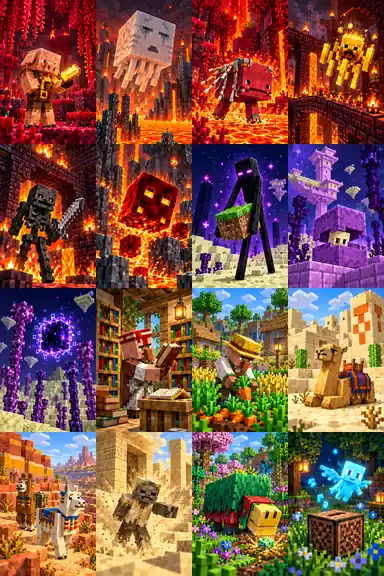
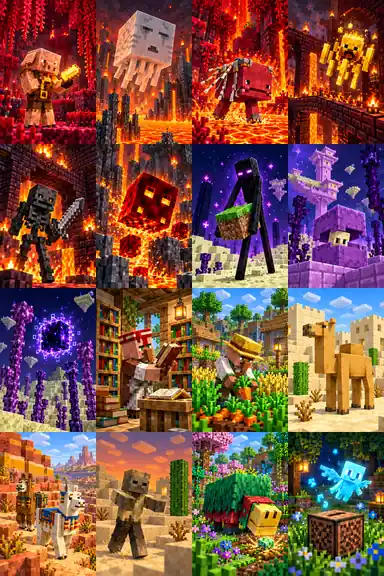
UNO: Minecraft kart baskısını yenile, Overworld masası ve mobil arka plan ekle

Changed region(s): [[0.75, 0.5, 1.0, 0.75], [0.25, 0.75, 0.5, 1.0]]

diff --git a/app/public/card-themes.js b/app/public/card-themes.js
@@ -2,7 +2,7 @@ export const DECKS=[{id:'classic',name:'Klasik'},{id:'cats',name:'Kediler'},{id:
 let current='classic';
 export function setDeckTheme(id){current=DECKS.some(d=>d.id===id)?id:'classic';return current;}
 export const getDeckTheme=()=>current;
-const atlasFile=(theme,sheet)=>`./assets/cards/${theme}-${sheet}.webp${theme==='cats'&&sheet==='b'?'?v=3':''}`;
+const atlasFile=(theme,sheet)=>`./assets/cards/${theme}-${sheet}.webp${theme==='cats'&&sheet==='b'?'?v=3':theme==='minecraft'&&sheet==='b'?'?v=2':''}`;
 export const deckFiles=id=>id==='classic'||!DECKS.some(d=>d.id===id)?[]:(id==='minecraft'?['a','b','c','d'].map(sheet=>atlasFile(id,sheet)):[atlasFile(id,'a'),atlasFile(id,'b'),...(id==='kuromi'?[atlasFile(id,'c')]:[])]);
 const colors={red:'#d90b28',yellow:'#f5c400',green:'#00954c',blue:'#086bdb',wild:'#22202a'};
 const family={cats:{paper:'#fff7e7',ink:'#342b28'},seal:{paper:'#fffefa',ink:'#211e24'},kuromi:{paper:'#ffeaf7',ink:'#291b30'},adventure:{paper:'#fff9df',ink:'#172c32'}};
@@ -109,13 +109,15 @@ function minecraftArtwork(index,preview=false){
   return `<svg width="100" height="150" style="width:100%;height:100%;overflow:hidden" viewBox="${column*100} ${row*150} 100 150"><image href="${atlasFile('minecraft',sheet)}" width="400" height="600" preserveAspectRatio="none"/></svg>`;
 }
 function minecraftFace(c,back,preview){
-  const index=sceneIndex(c,back,'minecraft'),color=colors[c.color]??'#10191e';let print=minecraftArtwork(index,back&&preview);
-  if(back){print+=`<g transform="rotate(-16 50 75)"><path d="M12 52h76v6h5v36h-6v5H12v-5H7V58h5Z" fill="#c71330" stroke="#fff5d8" stroke-width="2.5"/><g transform="translate(20 63)">${pixelWord('UNO','#ffdf62',3.5)}</g></g>`;}
-  else{
-    const stair='M0 0H72v5h-6v6h-6v6h-6v6h-6v6h-6v6h-6v6h-6v6h-6v6h-6v6h-6v6H6v6H0Z';
-    const mark=/^\d$/.test(c.value)?`<g transform="translate(8 8)">${pixelWord(c.value,'#fff7dc',3.8)}</g>`:['draw2','wild4'].includes(c.value)?`<g transform="translate(7 11)">${pixelWord(c.value==='draw2'?'+2':'+4','#fff7dc',2.65)}</g>`:glyph(c.value,'#fff7dc','#101c1d',2);
-    const corner=`<path d="${stair}" fill="${color}" fill-opacity=".94"/><path d="M7 66h6v-6h6v-6h6v-6h6v-6h6v-6h6v-6h6v-6h6v-6h6v-6h6" fill="none" stroke="${c.color==='wild'?'#a269df':'#fff8e1'}" stroke-width="1.1" opacity=".7"/>${mark}`;
-    print+=corner+`<g transform="rotate(180 50 75)">${corner}</g>`;
+  const index=sceneIndex(c,back,'minecraft'),wild=back||c.color==='wild',color=wild?'#201a36':colors[c.color],id='mc-print-'+(back?'back':c.color);
+  const wash=`<defs><linearGradient id="${id}-wash" x1="0" y1="0" x2="0" y2="1"><stop stop-color="${color}"/><stop offset=".12" stop-color="${color}" stop-opacity=".86"/><stop offset=".36" stop-color="${color}" stop-opacity="0"/><stop offset=".65" stop-color="${color}" stop-opacity="0"/><stop offset=".89" stop-color="${color}" stop-opacity=".72"/><stop offset="1" stop-color="${color}"/></linearGradient><linearGradient id="${id}-light" x2="1" y2="1"><stop stop-color="#fff7dc" stop-opacity=".8"/><stop offset=".4" stop-color="#fff7dc" stop-opacity=".14"/><stop offset="1" stop-color="#fff7dc" stop-opacity=".5"/></linearGradient></defs>`;
+  let print=wash+minecraftArtwork(index,back&&preview)+`<rect width="100" height="150" fill="url(#${id}-wash)"/>`;
+  if(back){
+    print+=`<path d="M9 46Q50 38 91 46v58Q50 112 9 104Z" fill="#181728" opacity=".72"/><path d="M15 49h7m56 0h7M15 101h7m56 0h7" stroke="#c7b8d7" stroke-width="1.2"/><g transform="translate(22 61)">${pixelWord('UNO','#fff5da',3.3)}</g>${palette.map((fill,i)=>`<path d="m${35+i*9} 92 3.3-3.3 3.3 3.3-3.3 3.3Z" fill="${fill}" stroke="#fff5da" stroke-width=".5"/>`).join('')}`;
+  }else{
+    const mark=/^\d$/.test(c.value)?`<g transform="translate(8 7)">${pixelWord(c.value,'#fff9e8',3.35)}${['6','9'].includes(c.value)?'<path d="M0 26h17" stroke="#fff9e8" stroke-width="1.8"/>':''}</g>`:['draw2','wild4'].includes(c.value)?`<g transform="translate(8 9)">${pixelWord(c.value==='draw2'?'+2':'+4','#fff9e8',2.45)}</g>`:`<g transform="translate(1 -1) scale(.9)">${glyph(c.value,'#fff9e8','#152019',1.4)}</g>`;
+    print+=mark+`<g transform="rotate(180 50 75)">${mark}</g>`;
+    if(c.value==='wild4')print+=palette.map((fill,i)=>`<path d="M${77+i%2*7} ${9+Math.floor(i/2)*7}h6v6h-6Z" fill="${fill}" stroke="#fff9e8" stroke-width=".6"/>`).join('');
   }
-  return `<svg viewBox="0 0 100 150" xmlns="http://www.w3.org/2000/svg" aria-hidden="true" data-deck="minecraft"${back?'':` data-card-value="${c.value}"`} style="overflow:hidden;border-radius:9% / 6%">${print}<rect x="1.7" y="1.7" width="96.6" height="146.6" rx="7.3" fill="none" stroke="#fff5d8" stroke-width="3.4"/><rect x="3.6" y="3.6" width="92.8" height="142.8" rx="5.4" fill="none" stroke="#163022" stroke-width=".65" opacity=".65"/></svg>`;
+  return `<svg viewBox="0 0 100 150" xmlns="http://www.w3.org/2000/svg" aria-hidden="true" data-deck="minecraft"${back?'':` data-card-value="${c.value}"`} style="overflow:hidden;border-radius:9% / 6%">${print}<rect x="1.5" y="1.5" width="97" height="147" rx="7.5" fill="none" stroke="#fff4dc" stroke-width="3"/><rect x="3.4" y="3.4" width="93.2" height="143.2" rx="5.5" fill="none" stroke="${back?'#9c8db1':color}" stroke-width="2.2"/><rect x="4.8" y="4.8" width="90.4" height="140.4" rx="4.2" fill="none" stroke="url(#${id}-light)" stroke-width=".6"/></svg>`;
 }

diff --git a/app/public/appearance.js b/app/public/appearance.js
@@ -8,10 +8,11 @@ export const TABLES=[
   {id:'navy',name:'Lacivert',felt:'#182e46',glow:'#3f648a55',panel:'#20364e',deep:'#132438'},
   {id:'charcoal',name:'Antrasit',felt:'#292b2c',glow:'#565b6040',panel:'#323638',deep:'#202426'},
   {id:'mauve',name:'Leylak',felt:'#40334c',glow:'#80658c50',panel:'#483c54',deep:'#30273b'},
-  {id:'rose',name:'Gülkurusu',felt:'#583a42',glow:'#a26c7350',panel:'#5c4048',deep:'#412c34'}
+  {id:'rose',name:'Gülkurusu',felt:'#583a42',glow:'#a26c7350',panel:'#5c4048',deep:'#412c34'},
+  {id:'minecraft',name:'Minecraft',felt:'#152b20',glow:'#223b2900',panel:'#1b3025',deep:'#10251b'}
 ];
-export function readAppearance(storage){try{storage??=globalThis.localStorage;const data=JSON.parse(storage.getItem(storageKey('uno-look-v1')));return {table:TABLES.some(t=>t.id===data?.table)?data.table:'green',deck:DECKS.some(d=>d.id===data?.deck)?data.deck:'classic'};}catch{return {table:'green',deck:'classic'};}}
-export function saveAppearance(look,storage){try{storage??=globalThis.localStorage;storage.setItem(storageKey('uno-look-v1'),JSON.stringify(look));}catch{}}
+export function readAppearance(storage){try{storage??=globalThis.localStorage;const data=JSON.parse(storage.getItem(storageKey('uno-look-v1')));return {table:data?.version!==2&&data?.deck==='minecraft'?'minecraft':TABLES.some(t=>t.id===data?.table)?data.table:'green',deck:DECKS.some(d=>d.id===data?.deck)?data.deck:'classic'};}catch{return {table:'green',deck:'classic'};}}
+export function saveAppearance(look,storage){try{storage??=globalThis.localStorage;storage.setItem(storageKey('uno-look-v1'),JSON.stringify({...look,version:2}));}catch{}}
 const loaded=new Map();
 function loadDeck(id){
   if(loaded.has(id))return loaded.get(id);
@@ -33,10 +34,10 @@ export function mountAppearance({onDeckChange,onError}){
   panel.addEventListener('click',async event=>{
     const swatch=event.target.closest('button[data-table]'),deck=event.target.closest('button[data-deck]');
     if(swatch){look.table=swatch.dataset.table;table();saveAppearance(look);refresh();}
-    if(deck&&!loading&&!busy){loading=true;refresh();try{await loadDeck(deck.dataset.deck);look.deck=deck.dataset.deck;setDeckTheme(look.deck);saveAppearance(look);onDeckChange();}catch(error){onError(error.message);}finally{loading=false;refresh();}}
+    if(deck&&!loading&&!busy){loading=true;refresh();try{await loadDeck(deck.dataset.deck);look.deck=deck.dataset.deck;if(look.deck==='minecraft'&&APPEARANCE_POLICY.tables){look.table='minecraft';table();}setDeckTheme(look.deck);saveAppearance(look);onDeckChange();}catch(error){onError(error.message);}finally{loading=false;refresh();}}
   });
   document.addEventListener('pointerdown',event=>{if(!panel.hidden&&!panel.contains(event.target)&&!$('appearance-toggle').contains(event.target))open(false);});
   document.addEventListener('keydown',event=>{if(event.key==='Escape')open(false);});
-  table();setDeckTheme(look.deck);
+  table();setDeckTheme(look.deck);saveAppearance(look);
   return {ensureDeck:()=>loadDeck(look.deck),setBusy:value=>{if(busy===value)return;busy=value;if(built)refresh();}};
 }

diff --git a/app/public/polish.css b/app/public/polish.css
@@ -143,6 +143,13 @@ body{background-image:radial-gradient(ellipse at 50% 45%,var(--felt-glow,#246244
 
 /* All expressions and the composer share one compact, non-scrolling surface. */
 .deck-options{grid-template-columns:repeat(3,minmax(0,1fr))}
+.table-options{gap:clamp(7px,2.4vw,14px)}
+.table-options button{width:clamp(26px,7.2vw,32px);height:clamp(26px,7.2vw,32px)}
+.table-options button[data-table="minecraft"]{border-radius:5px;background:linear-gradient(#71a246 0 30%,#42752f 30% 43%,#65442d 43% 66%,#805b3a 66% 82%,#523b2b 82%);box-shadow:inset 5px 0 #ffffff10,inset -5px 0 #0002}
+body[data-table="minecraft"]{background-image:linear-gradient(#081b204d,#0a211814 34%,#07180f40),url('./assets/tables/minecraft-wide.webp');background-size:cover;background-position:center;background-repeat:no-repeat}
+body[data-table="minecraft"]:before{display:none}
+body[data-table="minecraft"] .header,body[data-table="minecraft"] .player-name{text-shadow:0 1px 3px #071a16}
+@media(max-aspect-ratio:3/4){body[data-table="minecraft"]{background-image:linear-gradient(#081b204d,#0a211800 37%,#07180f40),url('./assets/tables/minecraft-portrait.webp')}}
 .chat-panel{--chat-gap:8px;display:grid;grid-template-areas:"heading" "stickers" "emotes" "composer";gap:var(--chat-gap);width:min(344px,calc(100vw - 24px));padding:10px 12px 12px;bottom:calc(66px + var(--chat-keyboard-offset,0px));right:12px;max-height:calc(var(--chat-visible-height,100dvh) - 20px);overflow:hidden;border-radius:13px;background:var(--panel,#16382e);box-shadow:0 10px 30px #031b1440}
 .chat-heading{grid-area:heading;margin:0;padding:0;font-size:12px;min-height:26px}
 .chat-heading .icon-button{width:28px;height:28px;padding:6px}

diff --git a/app/scripts/prepare-minecraft-art.py b/app/scripts/prepare-minecraft-art.py
@@ -8,6 +8,7 @@ SOURCES = ROOT / '.local/card-art-source'
 OUTPUT = ROOT / 'public/assets/cards'
 OUTPUT.mkdir(parents=True, exist_ok=True)
 originals = {sheet: Image.open(SOURCES / ('minecraft-' + sheet + '.png')).convert('RGB') for sheet in 'abcd'}
+corrections = Image.open(SOURCES / 'minecraft-b-v2.png').convert('RGB')
 for cell_width in (112, 96):
     cell_height = cell_width * 3 // 2
     atlases = {}
@@ -15,7 +16,8 @@ for cell_width in (112, 96):
         atlas = Image.new('RGB', (cell_width * 4, cell_height * 4))
         for index in range(16):
             x, y = index % 4, index // 4
-            tile = image.crop((round(x * image.width / 4), round(y * image.height / 4), round((x + 1) * image.width / 4), round((y + 1) * image.height / 4)))
+            source = corrections if sheet == 'b' and index in (11, 13) else image
+            tile = source.crop((round(x * source.width / 4), round(y * source.height / 4), round((x + 1) * source.width / 4), round((y + 1) * source.height / 4)))
             tile = tile.resize((cell_width, cell_height), Image.Resampling.LANCZOS)
             atlas.paste(tile, (x * cell_width, y * cell_height))
             if sheet == 'd' and index == 12:

diff --git a/app/scripts/prepare-table-art.py b/app/scripts/prepare-table-art.py
@@ -1,0 +1,24 @@
+"""Resize generated table illustrations for runtime; no creative image edits."""
+from io import BytesIO
+from pathlib import Path
+import json
+from PIL import Image, ImageOps
+
+ROOT = Path(__file__).resolve().parent.parent
+SOURCE = ROOT / '.local/table-art-source'
+OUTPUT = ROOT / 'public/assets/tables'
+OUTPUT.mkdir(parents=True, exist_ok=True)
+sources = {name: Image.open(SOURCE / f'minecraft-{name}.png').convert('RGB') for name in ('wide', 'portrait')}
+for quality in (62, 56, 50, 44):
+    encoded = {}
+    for name, size in {'wide': (960, 540), 'portrait': (432, 768)}.items():
+        data = BytesIO()
+        ImageOps.fit(sources[name], size, method=Image.Resampling.LANCZOS).save(data, 'WEBP', quality=quality, method=6)
+        encoded[name] = data.getvalue()
+    if sum(map(len, encoded.values())) < 65000:
+        for name, data in encoded.items():
+            (OUTPUT / f'minecraft-{name}.webp').write_bytes(data)
+        print(json.dumps({'quality': quality, 'bytes': {name: len(data) for name, data in encoded.items()}}))
+        break
+else:
+    raise ValueError('Table artwork exceeds its 65 KB budget')

diff --git a/MINECRAFT_ART_PROMPTS.md b/MINECRAFT_ART_PROMPTS.md
@@ -82,3 +82,20 @@ Create one production illustration atlas for a rich Minecraft UNO deck. Referenc
 15. a spotted cat fishing with a little explorer on a rain-soaked wooden dock
 16. a playful elaborate redstone piston contraption carrying crops and rails through a quarry
 
+## 5.4.1 · Minecraft baskısı ve masası
+
+Kullanıcı çapraz köşe dilimlerini ve Mısır’ı andıran çöl sahnesini reddetti. Yeni baskı, sahneyi boydan boya gösterir; renk üst/alt kenarlarda yumuşak geçiş ve ince baskı çizgisiyle birleşir. Orta sayı yoktur; köşe işaretleri vektör, 6/9 alt çizgilidir. Kart arkası amethyst/obsidian renkleri ve sade pixel UNO baskısı kullanır. b atlasının yalnız11 (deve) ve13 (Husk) hücreleri düzenlendi; diğer62 kaynak sahne korunur. Düzenlenmiş atlas .local/card-art-source/minecraft-b-v2.png, orijinal b.png yerinde tutulur. Runtime b.webp?v=2; paketleyici sadece iki hücreyi yeni kaynaktan alır. Kapak dahil217338B.
+
+Masa kaynakları app/.local/table-art-source/minecraft-wide.png ve minecraft-portrait.png. Ortası boş, çevresi cubic oak/grass blokları, lantern, crafting table ve chest içeren Overworld gün batımıdır. Telefon için ayrı kompozisyon yapıldı; yatay fotoğrafın dar kırpımı değildir. scripts/prepare-table-art.py yaratıcı olmayan küçültme/WebP paketlemesi yapar: public/assets/tables/minecraft-wide.webp960×540/34194B ve minecraft-portrait.webp432×768/27002B; toplam61196B<65000B. Ekran oranına göre yalnız bir arka plan yüklenir, varsayılan masalarda ikisi de yüklenmez. Minecraft destesi seçimi eş masa sahnesini açar; kullanıcı masa tercihini ayrıca değiştirebilir. Eski Minecraft tercihleri bir kez sürüm2’ye geçer; sonraki elle seçilen masa korunur. Masa ve kart dosyaları normal build’e girmez; ayrı onaylar false kalır. Diğer desteler değişmez. Built-in imagegen kullanıldı.
+
+### İlgili atlas düzenleme istemi
+
+Use case: precise-object-edit. Image 1 is the edit target, the existing 4 by 4 full-bleed portrait illustration atlas for a Minecraft card deck. Keep the exact 1024x1536 regular 4-column/4-row layout and KEEP FOURTEEN CELLS UNCHANGED. Edit ONLY these TWO cells, with accurate vanilla Minecraft shapes, no hybrid realistic anatomy: cell 12 (row 3 column 4, zero-based index 11) replace the whole scene with a recognizable Minecraft CAMEL, long rectangular tan block neck and head, blocky long legs, small square ears and single block hump, standing beside a vanilla Minecraft desert village with simple flat-roof sandstone block houses and a cactus. NO Egyptian pyramid, no monumental temple, no historical ornamentation or pharaoh motifs. Cell 14 (row4 column2, zero-based index13) replace the whole scene with a recognizable vanilla Minecraft HUSK zombie at dusk: a simple large cuboid tan-brown head, square black eyes, flat face, two straight rectangular arms pointing forward, angular tattered tan shirt, dark brown rectangular trousers, block feet. Like an in-game Minecraft zombie, NOT a mummy, NOT a golem, NOT a sandstone sculpture, not a human warrior. Background stepped sand and a green columnar cactus, a small flat roof Minecraft sandstone house far behind, square cloud sky. Match the existing atlas's crisp colorful voxel illustration, but exact Minecraft character geometry is essential. Each target scene fills its own 2:3 portrait cell; do not merge or resize cells. Keep the other fourteen scenes and all their positions unchanged. No card frames, borders, printed numerals, words, symbols, watermark, no extra grid margins.
+
+### Masaüstü arka plan istemi
+
+Use case: stylized-concept. Asset type: quiet background for a Minecraft themed multiplayer card game, landscape composition, wide 16:9. Create a beautifully art-directed VANILLA MINECRAFT Overworld clearing at blue hour with authentic visible cuboid grass blocks, cubic oak leaves, square block textures, simple rectangular voxel trees and a few warm lanterns. Composition intentionally for gameplay: the CENTRAL SIXTY PERCENT is a broad almost flat very dark moss-green grass clearing with subtle large pixel texture, low contrast and no props or characters so bright playing cards and small white player names are legible. Scenic detail lives ONLY around the outer edges: left and right edges have one or two cropped oak block trunks and staggered cubic foliage; bottom corners have a few grass-block terraces and tiny blocky flowers; distant upper edge has a low silhouette of grass hills, a very small recognizable crafting table partly hidden at far lower left and a wooden Minecraft chest at far lower right. Keep all these secondary and dark. Not an aerial photograph, not an interface, not a tabletop photo; gently elevated isometric view into a coherent Minecraft world, with shallow perspective. Sophisticated restrained game key art with precise simple voxel geometry, NOT ultra-detailed realistic stone, NOT fantasy ruins, NOT Egypt, NO temples or pyramids. No people, no mobs, no cards, no UNO logos, no text, no HUD, no frame. Overall deep forest green and blue-green, warm amber accents at edges, serene and richly atmospheric without distracting texture in center. No depth blur or vignette baked into the central area. The clearing must occupy the center and remain useful if cropped to a tall phone screen.
+
+### Telefon arka plan istemi
+
+Use case: stylized-concept. Image 1 is a STYLE AND WORLD reference, not an image to crop. Create a NEW portrait 9:16 background designed specifically for a phone-screen Minecraft card game. Match the same vanilla Minecraft Overworld block forest at blue-hour sunset, rectangular trees and cubic oak leaves, muted deep green flat grass clearing, simple pixel block textures and tiny warm lanterns. The central SIXTY-FIVE PERCENT of this narrow portrait must be very low contrast empty dark grass from top quarter to bottom, with enough vertical empty room for opponent cards, two center piles and a player's hand. Compose the SCENIC DETAILS in the narrow leftmost/rightmost15% and upper/lower corners so they remain visible on a tall phone: cropped oak tree along upper-left edge, small tree canopy upper-right, distant square hills and little square clouds at very top, one warm lantern on grass blocks at mid-right edge, small crafting table bottom-left and a Minecraft chest partially cropped at bottom-right. All secondary and dark enough for white UI labels. ONE continuous scene with elevated mild perspective, no UI or cards. MUST look authentically Minecraft rather than painterly fantasy or realistic forest; precise cubic geometry. No Egypt, pyramids, ruins, people, mobs, logos, HUD, text or frame. Central clearing remains spacious and calm. Portrait9:16, not landscape placed inside a portrait panel.

diff --git a/README.md b/README.md
@@ -22,4 +22,6 @@ Veri bütçesi: 16 görsel ve 6 ses toplam 122.773 bayt; sekiz fok toplam 49.150
 
 Masa ve kart tasarımları manuel onay bekler; canlı sitede varsayılan yeşil masa ve klasik deste kullanılır. `npm run preview:design` ayrı preview/ çıktısını oluşturur ve http://localhost:4176/uno/ adresinde altı keçe rengi ile Klasik / Kediler / Sude / Kuromi / Adventure Time / Minecraft destelerini açar. Minecraft 64 (43 sayı, 20 özel, 1 arka), Kuromi 48, diğer resimli desteler 32 farklı sahne içerir; özel kartların çizimleri kendi işlevlerini anlatır. Tercihler bu cihazda korunur, oyunu veya kart kimliklerini değiştirmez. Bir resimli deste kapak dahil yaklaşık 126–219 KB; yalnız seçilirse yüklenir. public/release-policy.js içinde masa ve kart onayları ayrı ayrı false kalır; açık kullanıcı onayı gelmeden değiştirilmez. Normal `npm run build` ana oyunda tasarımları açmaz. Kullanıcının canlı test isteği için GitHub Actions ayrıca `npm run build:design-test` ile /uno/test/ altında ayrı bir önizleme yayımlar. Botla canlı test: https://umuttkarip.github.io/uno/test/?modo=bot; tüm çizimler /uno/test/desteler.html. Testin kayıtları, istatistikleri, görünüm tercihleri ve grup bağlantıları ana oyundan ayrıdır. Üretim ayrıntıları CARD_ART_NOTES.md içindedir.
 
-5.4.0: Öpücük yeniden çizildi; Tripli ve Muzip onaylanan V2 çizimlerinden paketlendi. Sekiz çıkartma, sekiz emoji ve mesaj alanı kaydırmasız tek paneldedir; dar ve kısa ekranlarda yerleşim değişir. Minecraft yalnız tasarım testinde seçilir; tam yüzey baskısı, renge özgü özel kartları ve 64 sahnesi kapak dahil 217.972 bayttır. Aynı renkteki 19 sayı kartı farklı sahnelerdir; sayı çizimleri destede en çok iki kez kullanılır. Ana oyundaki tasarım onayları kapalıdır. Üretim istemleri MINECRAFT_ART_PROMPTS.md içindedir.
+5.4.0: Öpücük yeniden çizildi; Tripli ve Muzip onaylanan V2 çizimlerinden paketlendi. Sekiz çıkartma, sekiz emoji ve mesaj alanı kaydırmasız tek paneldedir; dar ve kısa ekranlarda yerleşim değişir. Minecraft yalnız tasarım testinde seçilir; tam yüzey baskısı, renge özgü özel kartları ve 64 sahnesi kapak dahil 217.338 bayttır. Aynı renkteki 19 sayı kartı farklı sahnelerdir; sayı çizimleri destede en çok iki kez kullanılır. Ana oyundaki tasarım onayları kapalıdır. Üretim istemleri MINECRAFT_ART_PROMPTS.md içindedir.
+
+5.4.1: Minecraft baskısındaki çapraz köşeler kaldırıldı; renkler tam yüzey sahneye yumuşak geçişle birleşir. Çöl zombisi ve deve sahneleri vanilla Minecraft geometrisiyle düzeltildi. Minecraft seçimi eş Overworld masasını açar; masa ayrıca değiştirilebilir. Telefon432×768/27002B ve masaüstü960×540/34194B arka planları ekran oranına göre ayrı yüklenir. Toplam61KB sınırı test edilir; normal oyunda tema medyası yüklenmez. Ana oyun için manuel tasarım onayı hâlâ gereklidir.

diff --git a/app/README.md b/app/README.md
@@ -22,4 +22,6 @@ Veri bütçesi: 16 görsel ve 6 ses toplam 122.773 bayt; sekiz fok toplam 49.150
 
 Masa ve kart tasarımları manuel onay bekler; canlı sitede varsayılan yeşil masa ve klasik deste kullanılır. `npm run preview:design` ayrı preview/ çıktısını oluşturur ve http://localhost:4176/uno/ adresinde altı keçe rengi ile Klasik / Kediler / Sude / Kuromi / Adventure Time / Minecraft destelerini açar. Minecraft 64 (43 sayı, 20 özel, 1 arka), Kuromi 48, diğer resimli desteler 32 farklı sahne içerir; özel kartların çizimleri kendi işlevlerini anlatır. Tercihler bu cihazda korunur, oyunu veya kart kimliklerini değiştirmez. Bir resimli deste kapak dahil yaklaşık 126–219 KB; yalnız seçilirse yüklenir. public/release-policy.js içinde masa ve kart onayları ayrı ayrı false kalır; açık kullanıcı onayı gelmeden değiştirilmez. Normal `npm run build` ana oyunda tasarımları açmaz. Kullanıcının canlı test isteği için GitHub Actions ayrıca `npm run build:design-test` ile /uno/test/ altında ayrı bir önizleme yayımlar. Botla canlı test: https://umuttkarip.github.io/uno/test/?modo=bot; tüm çizimler /uno/test/desteler.html. Testin kayıtları, istatistikleri, görünüm tercihleri ve grup bağlantıları ana oyundan ayrıdır. Üretim ayrıntıları CARD_ART_NOTES.md içindedir.
 
-5.4.0: Öpücük yeniden çizildi; Tripli ve Muzip onaylanan V2 çizimlerinden paketlendi. Sekiz çıkartma, sekiz emoji ve mesaj alanı kaydırmasız tek paneldedir; dar ve kısa ekranlarda yerleşim değişir. Minecraft yalnız tasarım testinde seçilir; tam yüzey baskısı, renge özgü özel kartları ve 64 sahnesi kapak dahil 217.972 bayttır. Aynı renkteki 19 sayı kartı farklı sahnelerdir; sayı çizimleri destede en çok iki kez kullanılır. Ana oyundaki tasarım onayları kapalıdır. Üretim istemleri MINECRAFT_ART_PROMPTS.md içindedir.
+5.4.0: Öpücük yeniden çizildi; Tripli ve Muzip onaylanan V2 çizimlerinden paketlendi. Sekiz çıkartma, sekiz emoji ve mesaj alanı kaydırmasız tek paneldedir; dar ve kısa ekranlarda yerleşim değişir. Minecraft yalnız tasarım testinde seçilir; tam yüzey baskısı, renge özgü özel kartları ve 64 sahnesi kapak dahil 217.338 bayttır. Aynı renkteki 19 sayı kartı farklı sahnelerdir; sayı çizimleri destede en çok iki kez kullanılır. Ana oyundaki tasarım onayları kapalıdır. Üretim istemleri MINECRAFT_ART_PROMPTS.md içindedir.
+
+5.4.1: Minecraft baskısındaki çapraz köşeler kaldırıldı; renkler tam yüzey sahneye yumuşak geçişle birleşir. Çöl zombisi ve deve sahneleri vanilla Minecraft geometrisiyle düzeltildi. Minecraft seçimi eş Overworld masasını açar; masa ayrıca değiştirilebilir. Telefon432×768/27002B ve masaüstü960×540/34194B arka planları ekran oranına göre ayrı yüklenir. Toplam61KB sınırı test edilir; normal oyunda tema medyası yüklenmez. Ana oyun için manuel tasarım onayı hâlâ gereklidir.

diff --git a/CARD_ART_NOTES.md b/CARD_ART_NOTES.md
@@ -27,4 +27,8 @@ Tasarım araştırması: [Bicycle Kuromi](https://store.asmodee.com/products/bic
 
 ## 5.4.0 · Minecraft (yalnız test)
 
-Dört portre 4×4 atlas, toplam64 sahne:43 sayı, dört renge özel12 eylem,4 renk değiştirme,4 +4 ve1 sabit kart arkası. Her renkte19 sayı sahnesi farklıdır; sayı çizimleri toplamda en çok iki kartta kullanılır. Tam yüzeye yayılan voxel sahneler; köşe renkleri ve bitişik piksellerden oluşan okunaklı SVG işaretler vardır, ortada tekrar sayı veya resim çerçevesi yoktur. Dört atlas384×576 (hücre96×144), cover80×120; kapak dahil217972B (<220KB). Yalnız Minecraft seçildiğinde yüklenir. Eski beş destenin108 yüz/arka SVG çıktıları korunur. Üretim istemleri MINECRAFT_ART_PROMPTS.md; kaynaklar app/.local/card-art-source/minecraft-{a,b,c,d}.png, paketleyici app/scripts/prepare-minecraft-art.py. Bu proje için üretilmiş hayran çizimleridir; resmî kart taraması değildir. Ana sitedeki kart/masa onayları false kalır.
+Dört portre 4×4 atlas, toplam64 sahne:43 sayı, dört renge özel12 eylem,4 renk değiştirme,4 +4 ve1 sabit kart arkası. Her renkte19 sayı sahnesi farklıdır; sayı çizimleri toplamda en çok iki kartta kullanılır. Tam yüzeye yayılan voxel sahneler; köşe renkleri ve bitişik piksellerden oluşan okunaklı SVG işaretler vardır, ortada tekrar sayı veya resim çerçevesi yoktur. Dört atlas384×576 (hücre96×144), cover80×120; kapak dahil217338B (<220KB). Yalnız Minecraft seçildiğinde yüklenir. Eski beş destenin108 yüz/arka SVG çıktıları korunur. Üretim istemleri MINECRAFT_ART_PROMPTS.md; kaynaklar app/.local/card-art-source/minecraft-{a,b,c,d}.png, paketleyici app/scripts/prepare-minecraft-art.py. Bu proje için üretilmiş hayran çizimleridir; resmî kart taraması değildir. Ana sitedeki kart/masa onayları false kalır.
+
+## 5.4.1 · Minecraft sahne ve baskı düzeltmesi
+
+Çapraz pixel köşeleri kaldırıldı; sahne tam yüzey görünür, renk üst/alt kenarlardan yumuşakça birleşir. Küçük SVG işaretler, ince renkli baskı çizgisi ve6/9 alt çizgisi okunaklılığı korur. Kart arkası obsidian/amethyst tonlarında sade pixel UNO baskısıdır. b/11deve ve b/13Husk sahneleri düzeltildi; paketleyici yalnız bu iki hücreyi minecraft-b-v2.png kaynağından alır, diğer kaynakları aynen korur. b.webp?v=2 önbelleği yeniler. Deste217338B. Minecraft masaüstü/telefon Overworld arka planı seçilince34194B/27002B gelir; iki resim birlikte indirilmez. Tema seçimi eş masayı açar; kişisel masa seçimi sonra ayrıca değişir ve korunur. Eski Minecraft tercihi bir kez version2’ye geçer. assetFiles includeTables ve ayrı TABLE_DESIGNS_APPROVED normal oyuna dağıtımı engeller. Yalnız /uno/test/; ana onaylarfalse. İstemler MINECRAFT_ART_PROMPTS.md sonundadır.
